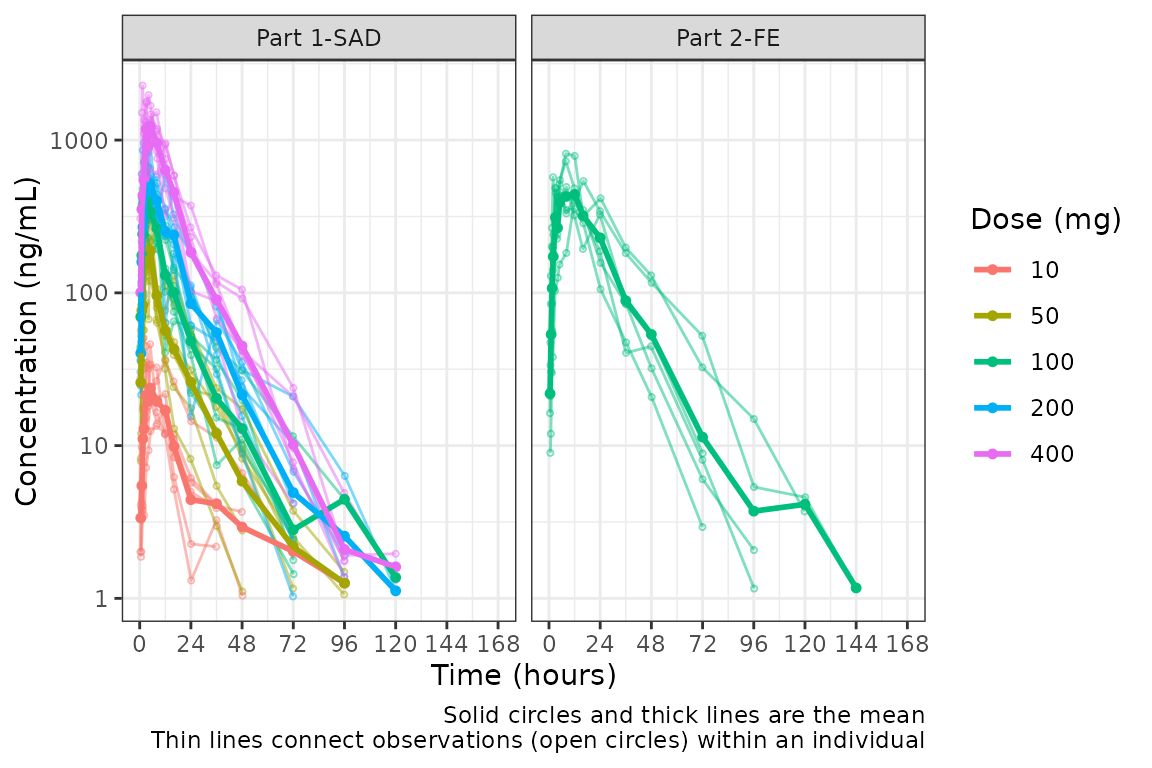
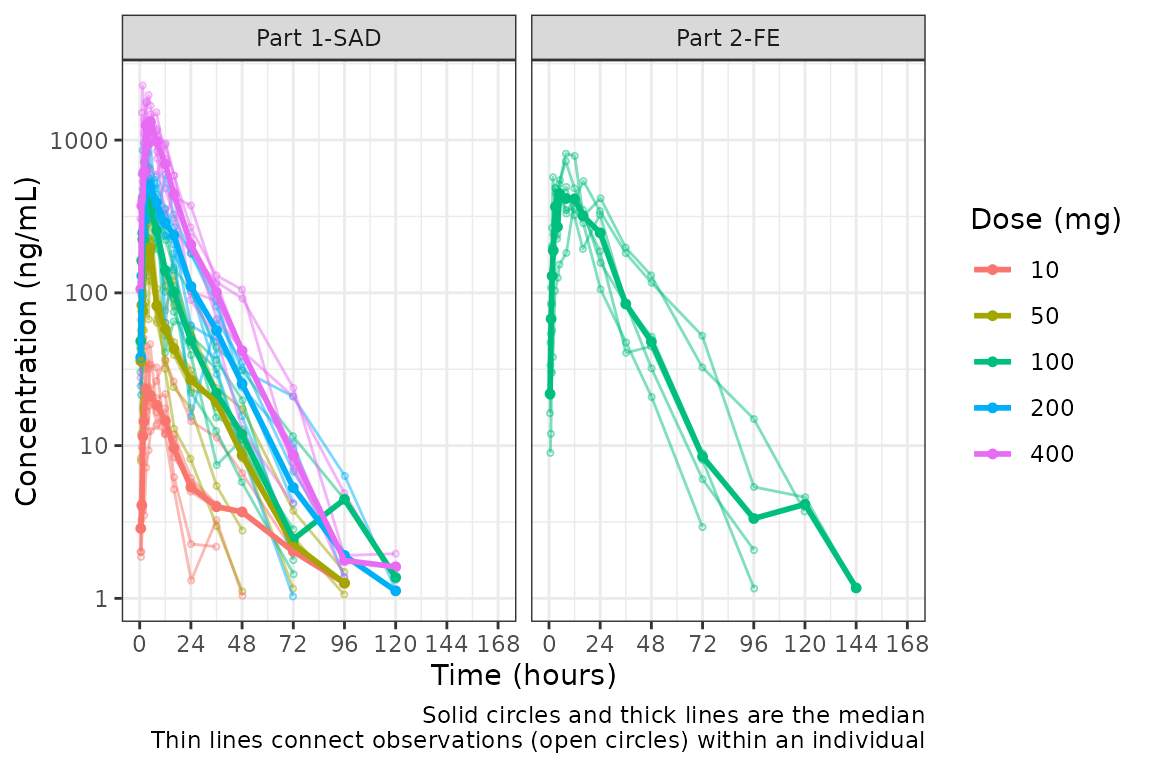
Deploying to gh-pages from @ ryancrass/pmxhelpr@dfb58c69f1482b4880ff331aa77b29daa1b940d7 🚀

diff --git a/articles/eda-pmxhelpr.html b/articles/eda-pmxhelpr.html
@@ -239,11 +239,12 @@ artifact introduced by censoring of data at the assay LLOQ; however,
 let’s confirm there are no weird individual subject profiles by
 connecting observed data points longitudinally within a subject - in
 other words, make a spaghetti plot.</p>
-<p>Data points within an individual will be connected by a narrow line
-when <code>ind_dv = TRUE</code></p>
+<p>We will change the central tendency measure to the median and add the
+spaghetti lines. Data points within an individual will be connected by a
+narrow line when <code>ind_dv = TRUE</code></p>
 <div class="sourceCode" id="cb11"><pre class="downlit sourceCode r">
-<code class="sourceCode R"><span><span class="fu"><a href="../reference/plot_dvtime.html">plot_dvtime</a></span><span class="op">(</span>data <span class="op">=</span> <span class="va">plot_data</span>, dv_var <span class="op">=</span> <span class="fu"><a href="https://rdrr.io/r/base/c.html" class="external-link">c</a></span><span class="op">(</span>DV <span class="op">=</span> <span class="st">"ODV"</span><span class="op">)</span>, col_var <span class="op">=</span> <span class="st">"Dose (mg)"</span>, cent <span class="op">=</span> <span class="st">"mean"</span>, </span>
-<span>            ind_dv <span class="op">=</span> <span class="cn">TRUE</span>,</span>
+<code class="sourceCode R"><span><span class="fu"><a href="../reference/plot_dvtime.html">plot_dvtime</a></span><span class="op">(</span>data <span class="op">=</span> <span class="va">plot_data</span>, dv_var <span class="op">=</span> <span class="fu"><a href="https://rdrr.io/r/base/c.html" class="external-link">c</a></span><span class="op">(</span>DV <span class="op">=</span> <span class="st">"ODV"</span><span class="op">)</span>, col_var <span class="op">=</span> <span class="st">"Dose (mg)"</span>, </span>
+<span>            cent <span class="op">=</span> <span class="st">"median"</span>, ind_dv <span class="op">=</span> <span class="cn">TRUE</span>,</span>
 <span>            ylab <span class="op">=</span> <span class="st">"Concentration (ng/mL)"</span>, xlab <span class="op">=</span> <span class="st">"Time (hours)"</span><span class="op">)</span> <span class="op">+</span></span>
 <span>  <span class="fu"><a href="https://ggplot2.tidyverse.org/reference/scale_continuous.html" class="external-link">scale_x_continuous</a></span><span class="op">(</span>breaks <span class="op">=</span> <span class="fu"><a href="https://rdrr.io/r/base/seq.html" class="external-link">seq</a></span><span class="op">(</span><span class="fl">0</span>,<span class="fl">168</span>,<span class="fl">24</span><span class="op">)</span><span class="op">)</span><span class="op">+</span></span>
 <span>  <span class="fu"><a href="https://ggplot2.tidyverse.org/reference/scale_continuous.html" class="external-link">scale_y_log10</a></span><span class="op">(</span><span class="op">)</span><span class="op">+</span></span>
@@ -276,7 +277,8 @@ we do not need to specify the <code>loq</code> argument (default is
 <code>loq = NULL</code>).</p>
 <div class="sourceCode" id="cb12"><pre class="downlit sourceCode r">
 <code class="sourceCode R"><span><span class="fu"><a href="../reference/plot_dvtime.html">plot_dvtime</a></span><span class="op">(</span><span class="va">plot_data</span>, dv_var <span class="op">=</span> <span class="fu"><a href="https://rdrr.io/r/base/c.html" class="external-link">c</a></span><span class="op">(</span>DV <span class="op">=</span> <span class="st">"ODV"</span><span class="op">)</span>, col_var <span class="op">=</span> <span class="st">"Dose (mg)"</span>,  </span>
-<span>            ylab <span class="op">=</span> <span class="st">"Concentration (ng/mL)"</span>, xlab <span class="op">=</span> <span class="st">"Time (hours"</span>, loq_method <span class="op">=</span> <span class="fl">2</span><span class="op">)</span> <span class="op">+</span></span>
+<span>            ylab <span class="op">=</span> <span class="st">"Concentration (ng/mL)"</span>, xlab <span class="op">=</span> <span class="st">"Time (hours)"</span>, </span>
+<span>            loq_method <span class="op">=</span> <span class="fl">2</span><span class="op">)</span> <span class="op">+</span></span>
 <span>  <span class="fu"><a href="https://ggplot2.tidyverse.org/reference/scale_continuous.html" class="external-link">scale_x_continuous</a></span><span class="op">(</span>breaks <span class="op">=</span> <span class="fu"><a href="https://rdrr.io/r/base/seq.html" class="external-link">seq</a></span><span class="op">(</span><span class="fl">0</span>,<span class="fl">168</span>,<span class="fl">24</span><span class="op">)</span><span class="op">)</span><span class="op">+</span></span>
 <span>  <span class="fu"><a href="https://ggplot2.tidyverse.org/reference/scale_continuous.html" class="external-link">scale_y_log10</a></span><span class="op">(</span><span class="op">)</span><span class="op">+</span></span>
 <span>  <span class="fu"><a href="https://ggplot2.tidyverse.org/reference/facet_wrap.html" class="external-link">facet_wrap</a></span><span class="op">(</span><span class="op">~</span><span class="va">PART</span><span class="op">)</span><span class="op">+</span></span>
@@ -285,7 +287,8 @@ we do not need to specify the <code>loq</code> argument (default is
 <p>The same plot is obtained by specifying <code>loq = 1</code></p>
 <div class="sourceCode" id="cb13"><pre class="downlit sourceCode r">
 <code class="sourceCode R"><span><span class="fu"><a href="../reference/plot_dvtime.html">plot_dvtime</a></span><span class="op">(</span><span class="va">plot_data</span>, dv_var <span class="op">=</span> <span class="fu"><a href="https://rdrr.io/r/base/c.html" class="external-link">c</a></span><span class="op">(</span>DV <span class="op">=</span> <span class="st">"ODV"</span><span class="op">)</span>, col_var <span class="op">=</span> <span class="st">"Dose (mg)"</span>,  </span>
-<span>            ylab <span class="op">=</span> <span class="st">"Concentration (ng/mL)"</span>, xlab <span class="op">=</span> <span class="st">"Time (hours"</span>, loq_method <span class="op">=</span> <span class="fl">2</span>, loq <span class="op">=</span> <span class="fl">1</span><span class="op">)</span> <span class="op">+</span></span>
+<span>            ylab <span class="op">=</span> <span class="st">"Concentration (ng/mL)"</span>, xlab <span class="op">=</span> <span class="st">"Time (hours)"</span>, </span>
+<span>            loq_method <span class="op">=</span> <span class="fl">2</span>, loq <span class="op">=</span> <span class="fl">1</span><span class="op">)</span> <span class="op">+</span></span>
 <span>  <span class="fu"><a href="https://ggplot2.tidyverse.org/reference/scale_continuous.html" class="external-link">scale_x_continuous</a></span><span class="op">(</span>breaks <span class="op">=</span> <span class="fu"><a href="https://rdrr.io/r/base/seq.html" class="external-link">seq</a></span><span class="op">(</span><span class="fl">0</span>,<span class="fl">168</span>,<span class="fl">24</span><span class="op">)</span><span class="op">)</span><span class="op">+</span></span>
 <span>  <span class="fu"><a href="https://ggplot2.tidyverse.org/reference/scale_continuous.html" class="external-link">scale_y_log10</a></span><span class="op">(</span><span class="op">)</span><span class="op">+</span></span>
 <span>  <span class="fu"><a href="https://ggplot2.tidyverse.org/reference/facet_wrap.html" class="external-link">facet_wrap</a></span><span class="op">(</span><span class="op">~</span><span class="va">PART</span><span class="op">)</span><span class="op">+</span></span>
